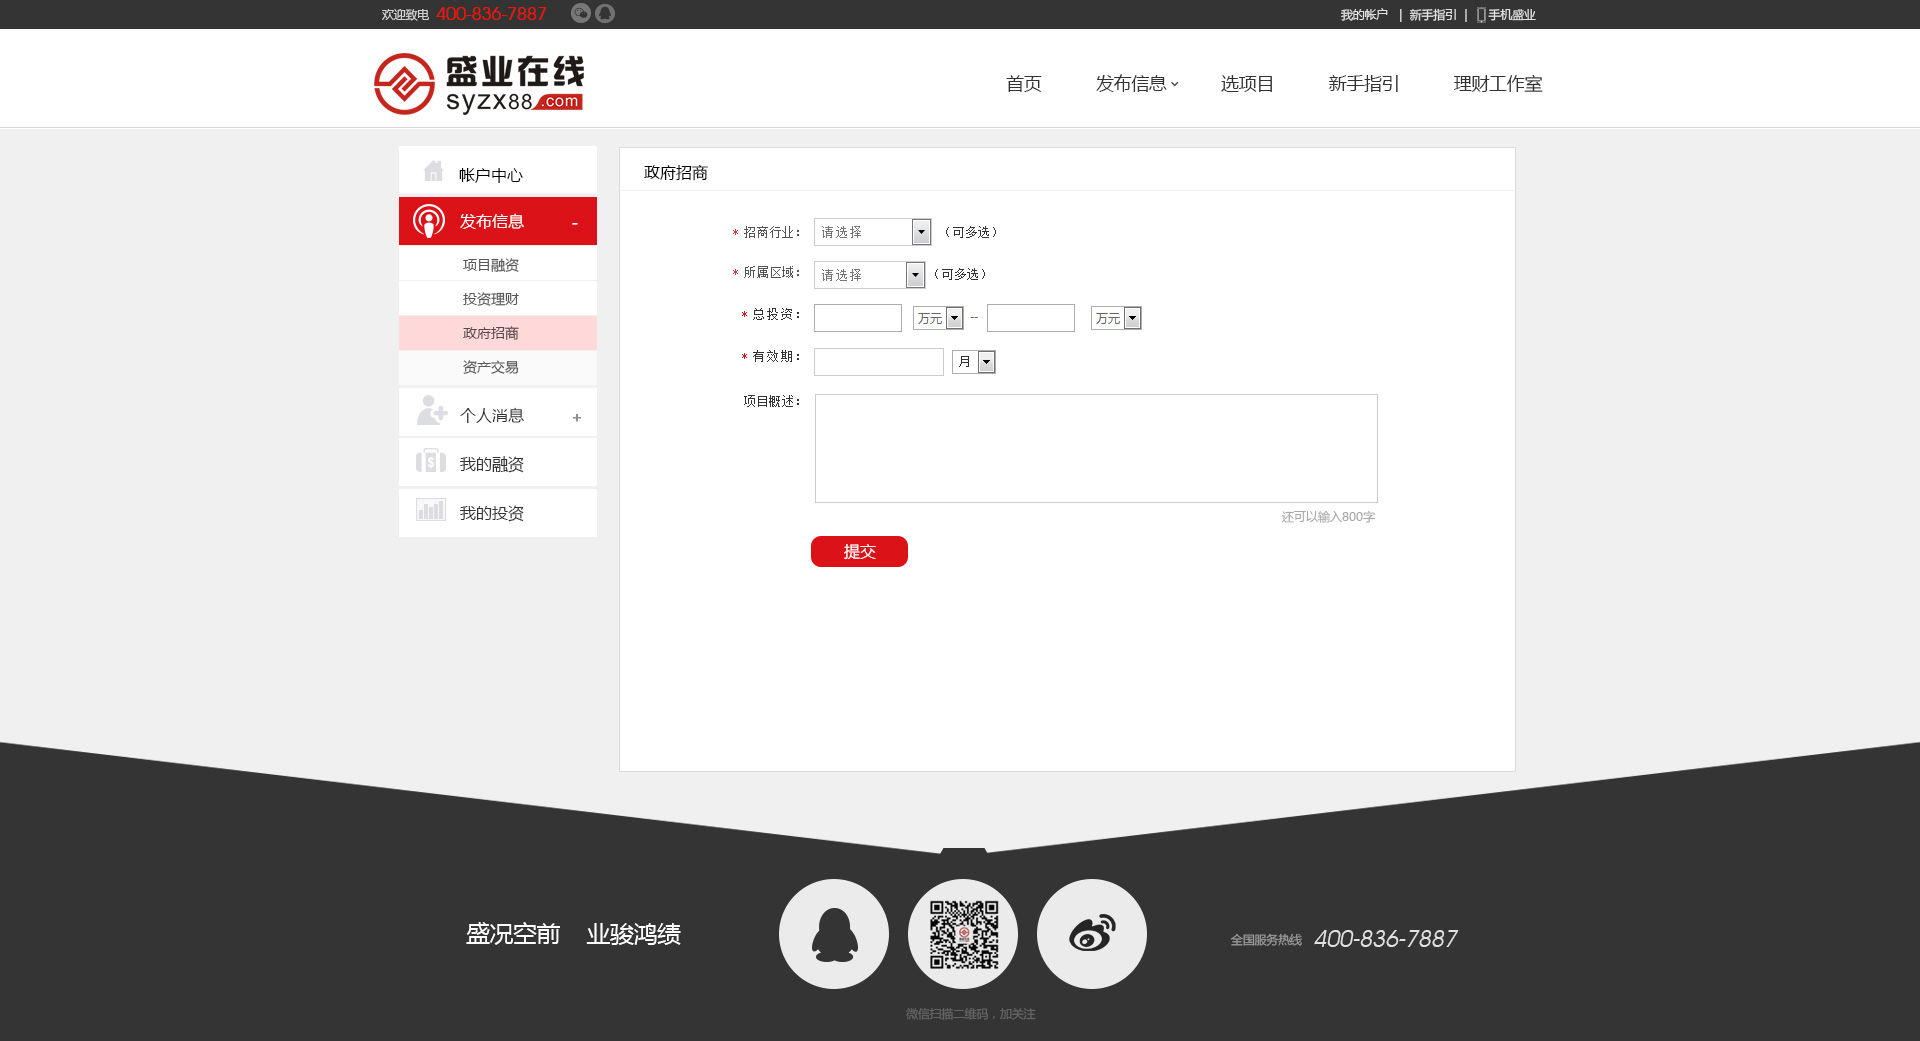
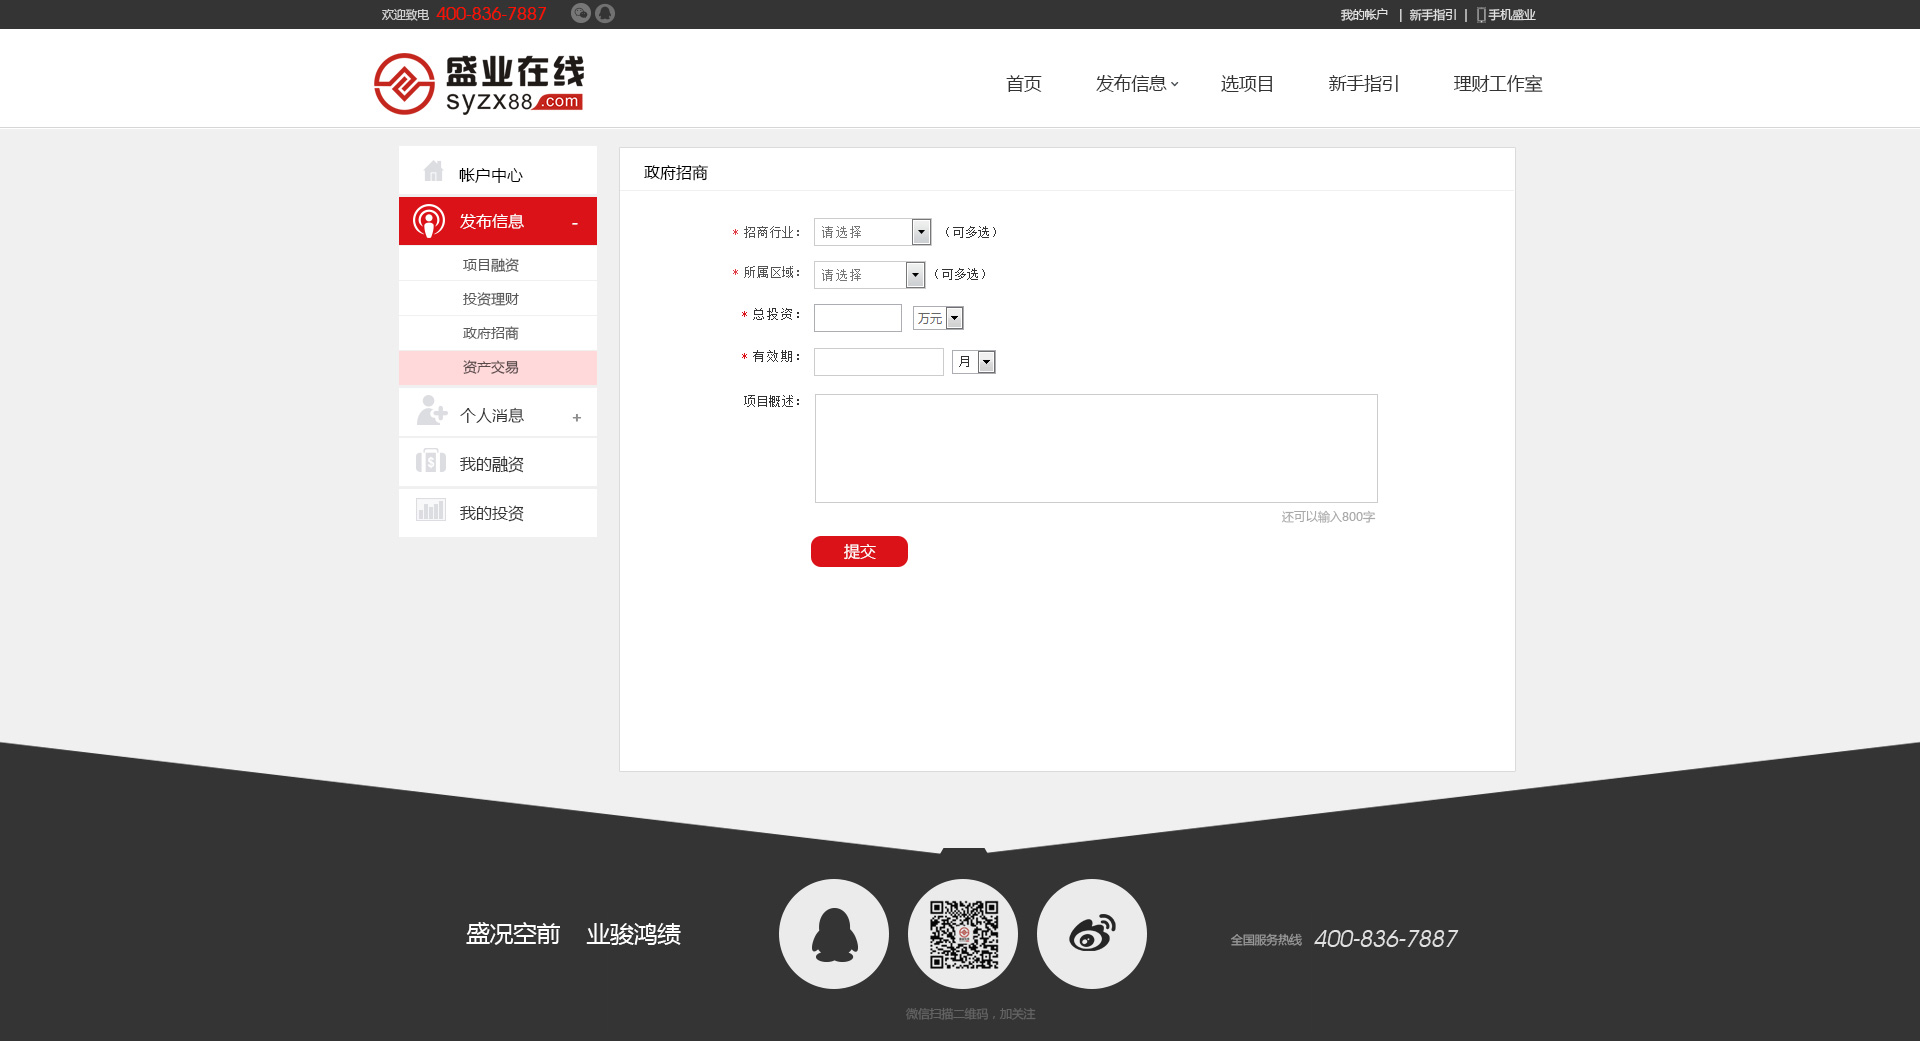
test

Changed region(s): [[0.1875, 0.2767, 0.3125, 0.3689], [0.5625, 0.2767, 0.5938, 0.3381]]

diff --git a/index.html b/index.html
@@ -29,7 +29,8 @@ body {
   </tr>
   <tr>
     <td height="40" align="center">注册</td>
-   <td align="center"><a href="zccg.html" target="_blank">资产交易</a></td>
+     <td align="center"><a href="wszl.html" target="_blank">资料完善</a></td>
+  
     <td align="center"><a href="xxx.html" target="_blank">融资列表页</a></td>
     <td align="center"><a href="jsz.html" target="_blank">建设中</a></td>
   </tr>
@@ -48,24 +49,24 @@ body {
   <tr>
     <td height="40" align="center"><a href="zindex9.html" target="_blank"></a>   <a href="index1.html" target="_blank"></a></td>
     <td align="center"><a href="zfzs.html" target="_blank">政府招商</a></td>
-    <td align="center"><a href="bpcg_bt.html" target="_blank">已解决</a></td>
+    <td align="center"><a href="yjj.html" target="_blank">已解决</a></td>
     <td align="center"><a href="news-xx.html" target="_blank">新闻详细</a></td>
   </tr>
   <tr>
     <td height="40" align="center">&nbsp;</td>
+     <td align="center"><a href="zccg.html" target="_blank">资产交易</a></td>
     
-     <td align="center"><a href="wszl.html" target="_blank">资料验证</a></td>
     <td align="center"><a href="tzlist.html" target="_blank">投资理财列表</a></td>
     <td align="center"><a href="bzzx.html" target="_blank">帮助中心</a></td>
   </tr>
   <tr>
     <td height="40" align="center"><a href="ddshz.html" target="_blank"></a></td>
-    <td align="center">&nbsp;</td>
+    <td align="center"><a href="xxfbxlist.html" target="_blank">信息发布列表</a></td>
     <td align="center"><a href="tzxx.html" target="_blank">投资理财详情</a></td>
     <td align="center"><a href="lcgzs.html" target="_blank">理财工作室</a></td>
   </tr>
   <tr>
-    <td height="40" align="center"><a href="bpcg_bt.html" target="_blank"></a></td>
+    <td height="40" align="center"><a href="yjj.html" target="_blank"></a></td>
     <td align="center">&nbsp;</td>
     <td align="center"><a href="zfzslis.html" target="_blank">政府招商列表</a></td>
     <td align="center"><a href="xszy.html" target="_blank">新手指引</a></td>
@@ -74,7 +75,7 @@ body {
     <td height="40" align="center"><a href="news.html" target="_blank"></a></td>
     <td align="center">&nbsp;</td>
     <td align="center"><a href="zfzsxx.html" target="_blank">政府招商详情</a></td>
-    <td align="center"><a href="news-xx.html" target="_blank"></a></td>
+    <td align="center"><a href="bzxx.html" target="_blank">帮助详细</a></td>
   </tr>
   <tr>
     <td height="40" align="center">&nbsp;</td>

diff --git a/xxfbxlist.html b/xxfbxlist.html
@@ -7,9 +7,9 @@
 
 </style>
 <body bgcolor="#E2E2E2" leftmargin="0" topmargin="0" marginwidth="0" marginheight="0">
-<table width="100%" border="0" cellspacing="0" cellpadding="0" style="background:url(images/dyz.jpg) no-repeat center center;">
+<table width="100%" border="0" cellspacing="0" cellpadding="0" style="background:url(images/xxfbxlist.jpg) no-repeat center center;">
   <tr>
-    <td width="100%" height="1302">&nbsp;</td>
+    <td width="100%" height="1159">&nbsp;</td>
   </tr>
 </table>
 

diff --git a/wszl.html b/wszl.html
@@ -7,9 +7,9 @@
 
 </style>
 <body bgcolor="#E2E2E2" leftmargin="0" topmargin="0" marginwidth="0" marginheight="0">
-<table width="100%" border="0" cellspacing="0" cellpadding="0" style="background:url(images/wszl.jpg) no-repeat center center;">
+<table width="100%" border="0" cellspacing="0" cellpadding="0" style="background:url(images/wszlx.jpg) no-repeat center center;">
   <tr>
-    <td width="100%" height="1382">&nbsp;</td>
+    <td width="100%" height="1331">&nbsp;</td>
   </tr>
 </table>
 

diff --git a/bzxx.html b/bzxx.html
@@ -7,9 +7,9 @@
 
 </style>
 <body bgcolor="#E2E2E2" leftmargin="0" topmargin="0" marginwidth="0" marginheight="0">
-<table width="100%" border="0" cellspacing="0" cellpadding="0" style="background:url(images/dyz.jpg) no-repeat center center;">
+<table width="100%" border="0" cellspacing="0" cellpadding="0" style="background:url(images/bzzxx.jpg) no-repeat center center;">
   <tr>
-    <td width="100%" height="1302">&nbsp;</td>
+    <td width="100%" height="1315">&nbsp;</td>
   </tr>
 </table>
 

diff --git a/ppz.html b/ppz.html
@@ -7,9 +7,9 @@
 
 </style>
 <body bgcolor="#E2E2E2" leftmargin="0" topmargin="0" marginwidth="0" marginheight="0">
-<table width="100%" border="0" cellspacing="0" cellpadding="0" style="background:url(images/ppz.jpg) no-repeat center center;">
+<table width="100%" border="0" cellspacing="0" cellpadding="0" style="background:url(images/ppzx.jpg) no-repeat center center;">
   <tr>
-    <td width="100%" height="1488">&nbsp;</td>
+    <td width="100%" height="1434">&nbsp;</td>
   </tr>
 </table>
 

diff --git a/yjj.html b/yjj.html
@@ -7,9 +7,9 @@
 
 </style>
 <body bgcolor="#E2E2E2" leftmargin="0" topmargin="0" marginwidth="0" marginheight="0">
-<table width="100%" border="0" cellspacing="0" cellpadding="0" style="background:url(images/dyz.jpg) no-repeat center center;">
+<table width="100%" border="0" cellspacing="0" cellpadding="0" style="background:url(images/yjj.jpg) no-repeat center center;">
   <tr>
-    <td width="100%" height="1302">&nbsp;</td>
+    <td width="100%" height="1500">&nbsp;</td>
   </tr>
 </table>
 

diff --git a/index6.html b/index6.html
@@ -9,7 +9,7 @@
 <body bgcolor="#E2E2E2" leftmargin="0" topmargin="0" marginwidth="0" marginheight="0">
 <table width="100%" border="0" cellspacing="0" cellpadding="0" style="background:url(images/index6.jpg) no-repeat center center;">
   <tr>
-    <td width="100%" height="3441">&nbsp;</td>
+    <td width="100%" height="3235">&nbsp;</td>
   </tr>
 </table>
 
